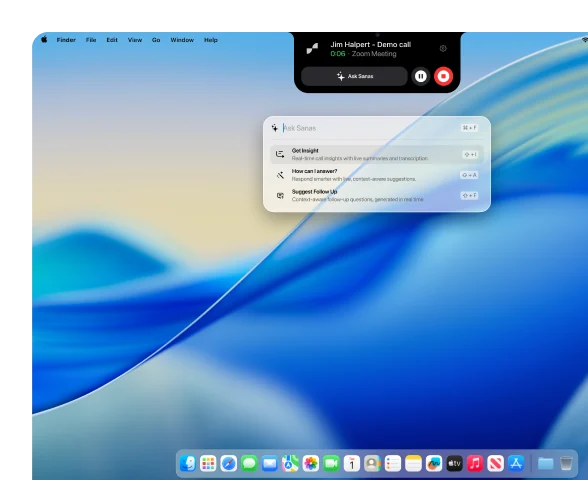
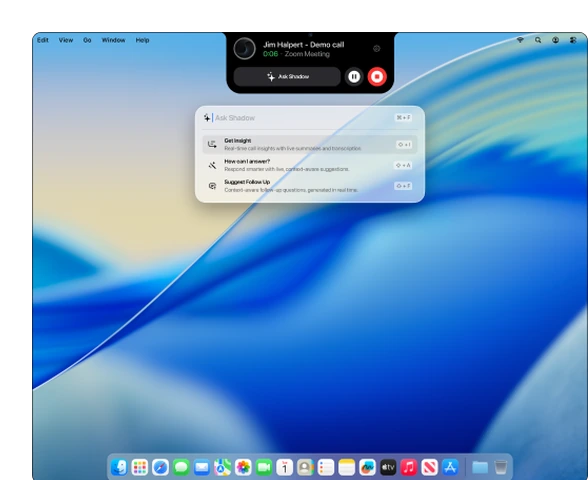
Update case study thumbnails and enlarge them on cards
Claude-Session: https://claude.ai/code/session_01HkiMyPex6CZL85NQtep86r

diff --git a/work/case.css b/work/case.css
@@ -277,8 +277,8 @@
 .navcard.next:hover .dir svg { transform: translateX(6px); }
 .navcard .ttl { margin-top: 14px !important; font-family: var(--serif); font-size: clamp(24px, 2.2vw, 30px); line-height: 1.2; }
 .navcard .sub { margin-top: 8px !important; font-size: 15px; color: rgba(243,243,243,.55); }
-.navcard .pic { margin-top: 28px; height: 240px; overflow: hidden; display: flex; justify-content: center; padding: 0 32px; }
-.navcard .pic img { width: 100%; max-width: 420px; height: 100%; object-fit: cover; object-position: top; border-radius: 10px 10px 0 0; transition: transform .8s cubic-bezier(.22,.61,.36,1); }
+.navcard .pic { margin-top: 28px; height: 300px; overflow: hidden; display: flex; justify-content: center; padding: 0 32px; }
+.navcard .pic img { width: 100%; max-width: 500px; height: 100%; object-fit: cover; object-position: center top; transition: transform .8s cubic-bezier(.22,.61,.36,1); }
 .navcard:hover .pic img { transform: translateY(-10px); }
 .more-count { margin-top: 28px !important; text-align: center; font-size: 14px; letter-spacing: .14em; color: rgba(243,243,243,.5); }
 

diff --git a/styles.css b/styles.css
@@ -383,7 +383,7 @@ h1, h2, h3, p { margin: 0; font-weight: 400; }
 .card__date strong { font-weight: 400; font-size: 18px; }
 .card__shot {
   position: absolute; right: 0; bottom: 0;
-  width: 54%; max-width: 320px;
+  width: 58%; max-width: 360px;
   border-top-left-radius: 10px;
   transition: transform .6s var(--ease);
   transform-origin: bottom right;
@@ -517,7 +517,7 @@ h1, h2, h3, p { margin: 0; font-weight: 400; }
   .cards__col { gap: 32px; }
   .cards__col--offset { padding-top: 0; }
   /* order: onboarding, AI assistant, help center, enphase -> matches tablet design */
-  .card { min-height: 420px; }
+  .card { min-height: 520px; }
   .card .tags { max-width: 55%; }
 
   .article { grid-template-columns: 1fr; gap: 24px; }

diff --git a/work/preview.html b/work/preview.html
@@ -12,8 +12,8 @@
   <link rel="preconnect" href="https://fonts.googleapis.com">
   <link rel="preconnect" href="https://fonts.gstatic.com" crossorigin>
   <link rel="stylesheet" href="https://fonts.googleapis.com/css2?family=Gilda+Display&family=Marcellus&display=swap">
-  <link rel="stylesheet" href="../styles.css?v=11">
-  <link rel="stylesheet" href="case.css?v=10">
+  <link rel="stylesheet" href="../styles.css?v=12">
+  <link rel="stylesheet" href="case.css?v=11">
   <style>a { pointer-events: none; } .to-top { display: none !important; }</style>
 </head>
 <body>

diff --git a/work/enphase-reconnection.html b/work/enphase-reconnection.html
@@ -15,8 +15,8 @@
   <link rel="preconnect" href="https://fonts.googleapis.com">
   <link rel="preconnect" href="https://fonts.gstatic.com" crossorigin>
   <link rel="stylesheet" href="https://fonts.googleapis.com/css2?family=Gilda+Display&family=Marcellus&display=swap">
-  <link rel="stylesheet" href="../styles.css?v=11">
-  <link rel="stylesheet" href="case.css?v=10">
+  <link rel="stylesheet" href="../styles.css?v=12">
+  <link rel="stylesheet" href="case.css?v=11">
 </head>
 <body>
   <a class="skip-link" href="#case">Skip to content</a>

diff --git a/work/sanas-ai-assistant.html b/work/sanas-ai-assistant.html
@@ -15,8 +15,8 @@
   <link rel="preconnect" href="https://fonts.googleapis.com">
   <link rel="preconnect" href="https://fonts.gstatic.com" crossorigin>
   <link rel="stylesheet" href="https://fonts.googleapis.com/css2?family=Gilda+Display&family=Marcellus&display=swap">
-  <link rel="stylesheet" href="../styles.css?v=11">
-  <link rel="stylesheet" href="case.css?v=10">
+  <link rel="stylesheet" href="../styles.css?v=12">
+  <link rel="stylesheet" href="case.css?v=11">
 </head>
 <body>
   <a class="skip-link" href="#case">Skip to content</a>

diff --git a/work/sanas-onboarding.html b/work/sanas-onboarding.html
@@ -15,8 +15,8 @@
   <link rel="preconnect" href="https://fonts.googleapis.com">
   <link rel="preconnect" href="https://fonts.gstatic.com" crossorigin>
   <link rel="stylesheet" href="https://fonts.googleapis.com/css2?family=Gilda+Display&family=Marcellus&display=swap">
-  <link rel="stylesheet" href="../styles.css?v=11">
-  <link rel="stylesheet" href="case.css?v=10">
+  <link rel="stylesheet" href="../styles.css?v=12">
+  <link rel="stylesheet" href="case.css?v=11">
 </head>
 <body>
   <a class="skip-link" href="#case">Skip to content</a>

diff --git a/work/swiggy-group-ordering.html b/work/swiggy-group-ordering.html
@@ -15,8 +15,8 @@
   <link rel="preconnect" href="https://fonts.googleapis.com">
   <link rel="preconnect" href="https://fonts.gstatic.com" crossorigin>
   <link rel="stylesheet" href="https://fonts.googleapis.com/css2?family=Gilda+Display&family=Marcellus&display=swap">
-  <link rel="stylesheet" href="../styles.css?v=11">
-  <link rel="stylesheet" href="case.css?v=10">
+  <link rel="stylesheet" href="../styles.css?v=12">
+  <link rel="stylesheet" href="case.css?v=11">
 </head>
 <body>
   <a class="skip-link" href="#case">Skip to content</a>

diff --git a/resume.html b/resume.html
@@ -15,7 +15,7 @@
   <link rel="preconnect" href="https://fonts.googleapis.com">
   <link rel="preconnect" href="https://fonts.gstatic.com" crossorigin>
   <link rel="stylesheet" href="https://fonts.googleapis.com/css2?family=Gilda+Display&family=Marcellus&display=swap">
-  <link rel="stylesheet" href="styles.css?v=11">
+  <link rel="stylesheet" href="styles.css?v=12">
 </head>
 <body class="rq-page">
   <!-- Private resume download. The link comes by email after Prayag approves a request. -->

diff --git a/work/sanas-help-center.html b/work/sanas-help-center.html
@@ -14,8 +14,8 @@
   <link rel="apple-touch-icon" href="../assets/brand/apple-touch-icon.png">
   <link rel="stylesheet" href="../assets/brand/loader.css?v=3">
   <script src="../assets/brand/loader.js?v=3"></script>
-  <link rel="stylesheet" href="../styles.css?v=11">
-  <link rel="stylesheet" href="case.css?v=10">
+  <link rel="stylesheet" href="../styles.css?v=12">
+  <link rel="stylesheet" href="case.css?v=11">
 </head>
 <body>
   <a class="skip-link" href="#case">Skip to content</a>

diff --git a/index.html b/index.html
@@ -18,7 +18,7 @@
   <link rel="preconnect" href="https://fonts.googleapis.com">
   <link rel="preconnect" href="https://fonts.gstatic.com" crossorigin>
   <link rel="stylesheet" href="https://fonts.googleapis.com/css2?family=Gilda+Display&family=Marcellus&display=swap">
-  <link rel="stylesheet" href="styles.css?v=11">
+  <link rel="stylesheet" href="styles.css?v=12">
 </head>
 <body>
   <a class="skip-link" href="#main">Skip to content</a>
